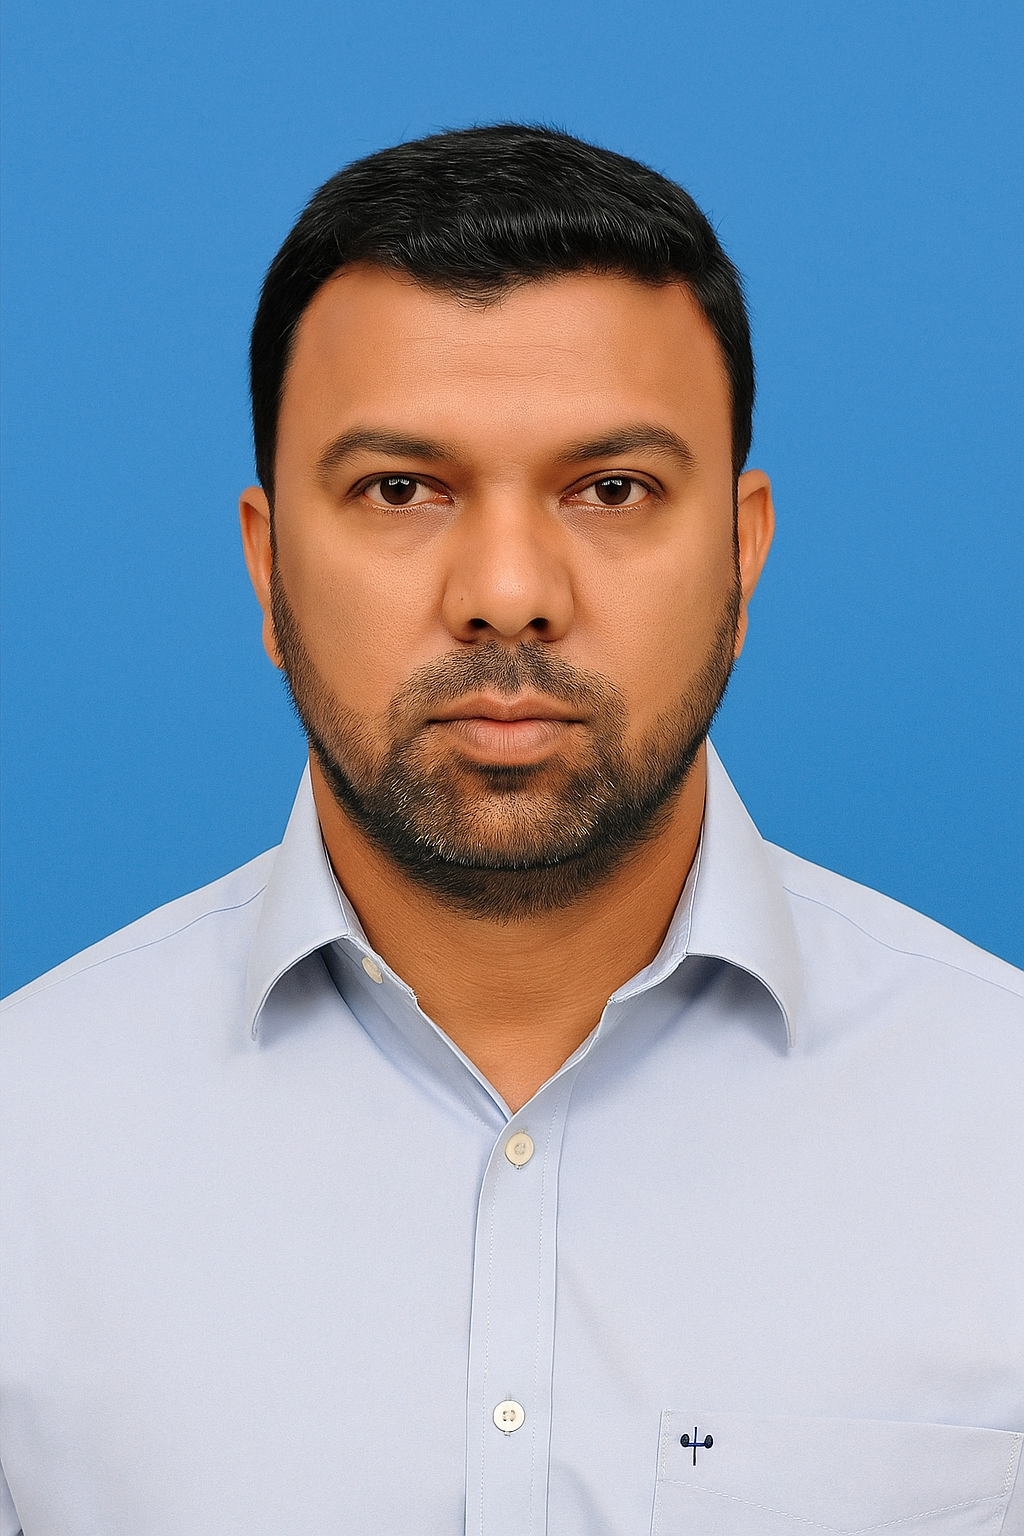
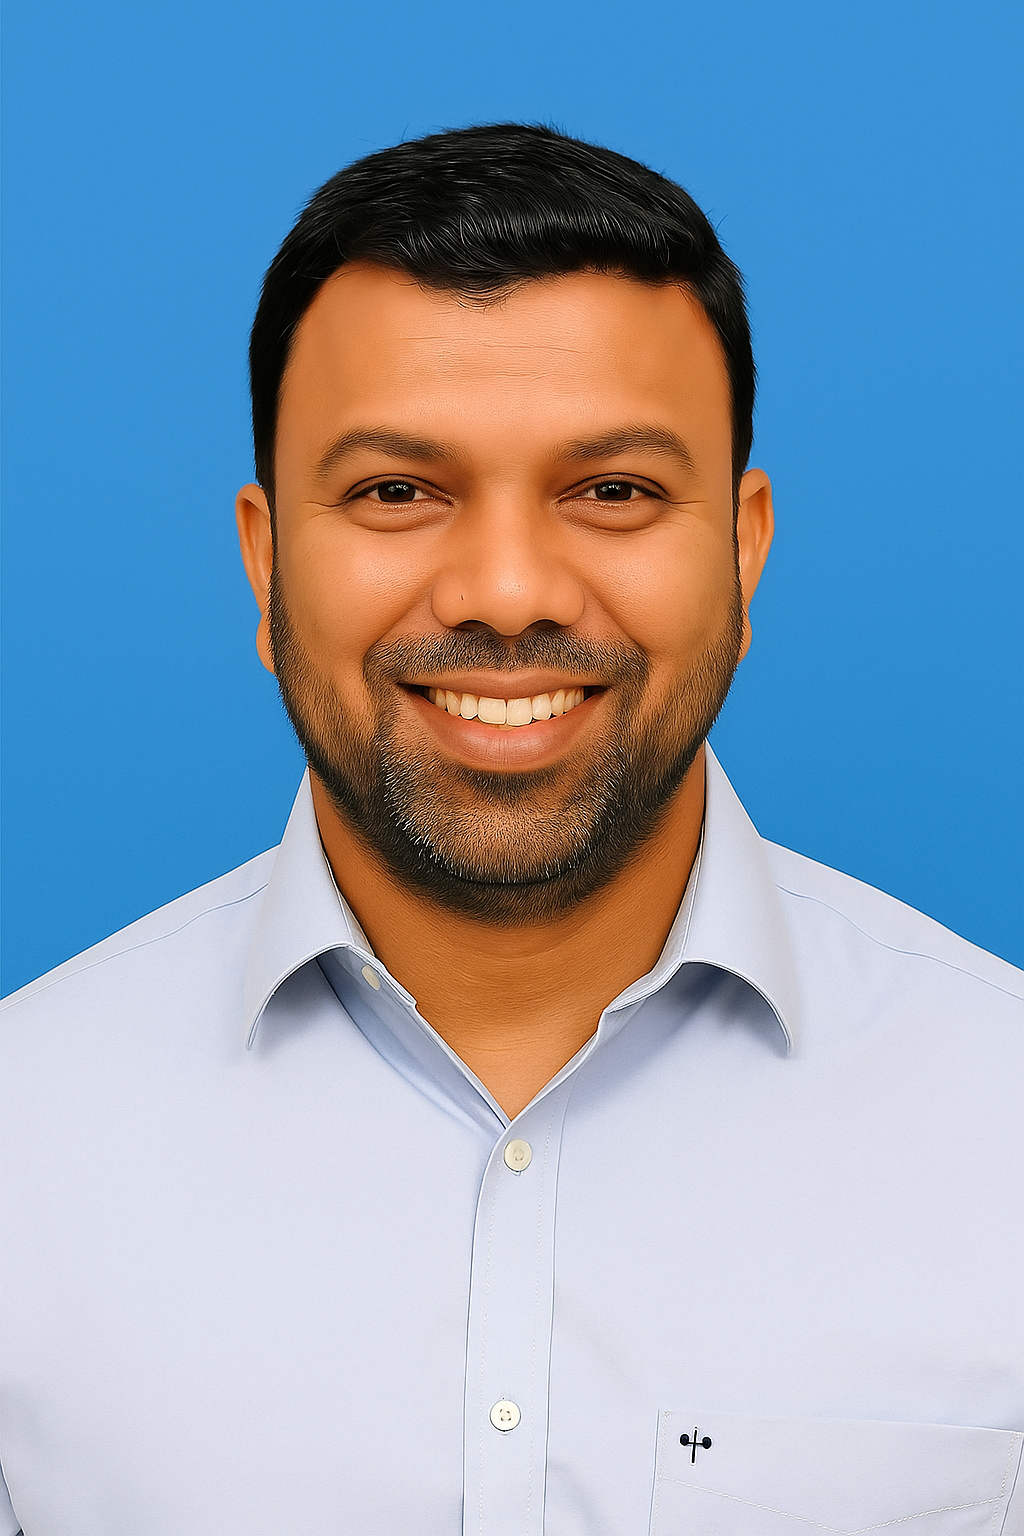
previous changes fogot to commit

diff --git a/assets/css/style.css b/assets/css/style.css
@@ -268,6 +268,25 @@ button, a { transition: var(--transition); }
   padding-block: 25px;
 }
 
+.header-bottom-flex {
+  display: flex;
+  justify-content: space-between;
+  align-items: center;
+}
+
+.site-title {
+  font-family: 'Poppins', sans-serif;
+  font-weight: 900;
+  font-size: 2.2rem;
+  letter-spacing: 2px;
+  color: #1a237e;
+  margin: 0;
+  text-shadow: 0 2px 8px rgba(44,62,80,0.10);
+  display: flex;
+  align-items: center;
+  gap: 8px;
+  line-height: 1.1;
+}
 
 
 .navbar {
@@ -418,12 +437,10 @@ button, a { transition: var(--transition); }
 
 
 /*-----------------------------------*\
-  # FOUNDER
+  #FOUNDER
 \*-----------------------------------*/
 
- 
-
-  .founder-flex {
+.founder-flex {
   display: flex;
   flex-wrap: wrap;
   align-items: flex-start;
@@ -450,8 +467,7 @@ button, a { transition: var(--transition); }
   height: 100%;
   object-fit: cover;
   border-radius: 12px;
-  border: 4px solid #e3ecf7;
-  box-shadow: none;
+  border: 5px solid #e3ecf7;
   background: #fff;
   display: block;
   margin: 0;
@@ -529,7 +545,6 @@ button, a { transition: var(--transition); }
   }
 }
 
-
 /*-----------------------------------*\
   #ABOUT
 \*-----------------------------------*/
@@ -537,21 +552,23 @@ button, a { transition: var(--transition); }
 .about { padding-block: var(--section-padding); }
 
 .about-banner {
-  position: relative;
-  margin-bottom: 40px;
+  background: #ffffff;
+  border: 2px solid #e0e0e0;
+  border-radius: 12px;
+  padding: 12px;
+  box-shadow: 0 6px 20px rgba(0, 0, 0, 0.08);
+  display: flex;
+  justify-content: center;
+  align-items: center;
+  max-width: 100%;
+  margin: 20px auto;
 }
 
-.about-banner > img {
-  max-width: max-content;
-  width: 100%;
-}
-
-.about-banner .abs-img {
-  position: absolute;
-  bottom: 100px;
-  left: 15px;
-  width: 50%;
-  border-radius: 4px;
+.about-banner img {
+  border-radius: 10px;
+  max-width: 100%;
+  height: auto;
+  display: block;
 }
 
 .about .section-subtitle { margin-inline: 0; }
@@ -838,9 +855,9 @@ button, a { transition: var(--transition); }
 
 .blog-card .card-banner img {
   width: 100%;
-  height: auto;         /* Set a fixed height for all blog images */
-  object-fit: cover;     /* Ensures the image covers the area without distortion */
-  border-radius: 12px;   /* Optional: rounded corners for a modern look */
+  height: auto;
+  object-fit: cover;
+  border-radius: 12px;
   display: block;
 }
 
@@ -1923,13 +1940,16 @@ button, a { transition: var(--transition); }
   .navbar-dropdown:focus-within > .dropdown-menu {
     display: block;
   }
-}
-
-/* Ensure header stays below navbar */
-@media (max-width: 900px) {
   .header-bottom {
     position: relative;
     z-index: 1000;
+  }
+}
+
+/* Hide menu icon on large screens */
+@media (min-width: 901px) {
+  .nav-open-btn {
+    display: none !important;
   }
 }
 

diff --git a/index.html b/index.html
@@ -47,26 +47,16 @@
 
 
     <div class="header-bottom">
-      <div class="container">
+      <div class="container header-bottom-flex">
 
-        <a href="index.html" class="header-head" style="text-decoration:none; display:inline-block;">
-          <h1 style="
-            font-family: 'Poppins', sans-serif;
-            font-weight: 900;
-            font-size: 2.2rem;
-            letter-spacing: 2px;
-            color: #1a237e;
-            margin: 0;
-            text-shadow: 0 2px 8px rgba(44,62,80,0.10);
-            display: flex;
-            align-items: center;
-            gap: 8px;
-            line-height: 1.1;
-          ">
-            <span style="color:#ff9800;">Maxima Wealth</span>
-            <span style="color:#1a237e;">Advisors</span>
-          </h1>
-        </a>
+        <!-- Logo and Title -->
+
+       <a href="index.html" class="header-head" style="text-decoration:none;">
+      <h1 class="site-title">
+        <span style="color:#ff9800;">Maxima Wealth</span>
+        <span style="color:#1a237e;">Advisors</span>
+      </h1>
+    </a>
 
         <button class="nav-open-btn" aria-label="Open Menu"  onclick="toggleMenu()">
           <ion-icon name="menu-outline"></ion-icon>
@@ -188,7 +178,7 @@
         <div class="container founder-flex">
 
           <figure class="founder-banner">
-            <img src="./assets/images/founder.png" alt="Founder image">
+            <img src="./assets/images/maxima-founder.jpg" alt="Founder image">
           </figure>
 
           <div class="founder-content">
@@ -244,7 +234,7 @@
         <div class="container">
 
           <figure class="about-banner">
-            <img src="./assets/images/bg2.png" alt="House interior">
+            <img src="./assets/images/bg3.png" alt="maxima interior">
 
           </figure>
 
@@ -749,8 +739,8 @@
     <div class="complaint-report-box">
       <h3>📝 Complaint Report</h3>
       <ul class="complaint-stats">
-        <li><strong>Complaints Received:</strong> 2</li>
-        <li><strong>Complaints Resolved:</strong> 2</li>
+        <li><strong>Complaints Received:</strong> 0</li>
+        <li><strong>Complaints Resolved:</strong> 0</li>
       </ul>
     </div>
 
@@ -834,7 +824,7 @@
   </div>
   <!-- Map Embed End -->
 
-</footer>
+
 
         <div class="footer-social">
           <p class="section-subtitle"></p>
@@ -888,7 +878,6 @@
   </footer>
 
 
-<div class="overlay" data-overlay></div>
 
 
 
